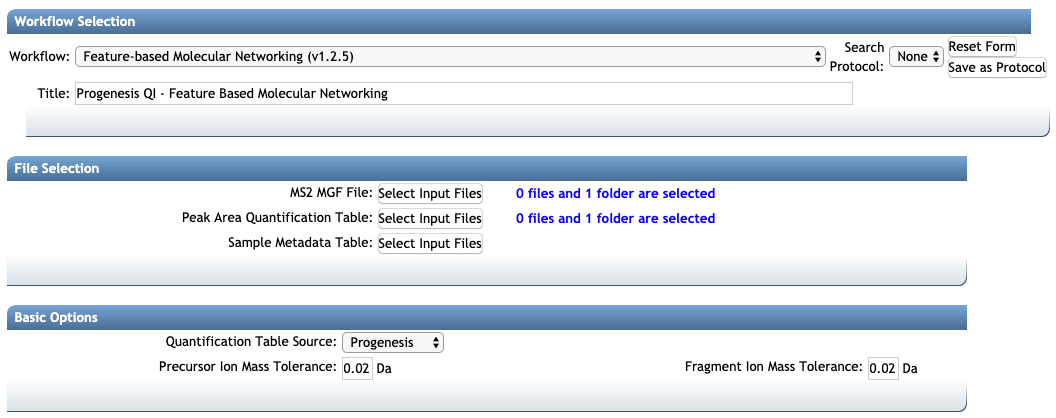
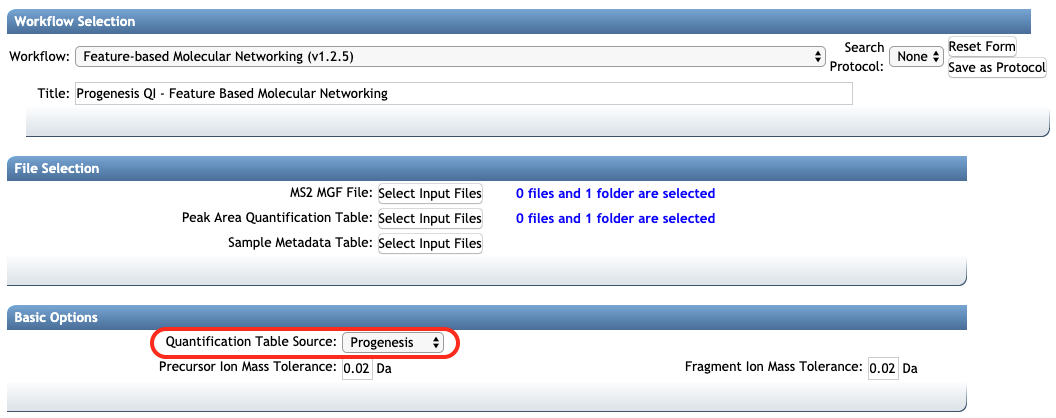
[FBMN] Update to the Progenesis QI documentation
- Detailed description of the export procedure.
- Screenshots
- Text refactoring

Changed region(s): [[0.125, 0.7775, 0.4375, 0.8708]]

diff --git a/docs/featurebasedmolecularnetworking-with-progenesisQI.md b/docs/featurebasedmolecularnetworking-with-progenesisQI.md
@@ -1,37 +1,67 @@
 ## Introduction
 
-**Feature-Based Molecular Networking** (FBMN) is a computational method that bridges popular mass spectrometry data processing tools for LC-MS/MS and molecular networking analysis on [GNPS](http://gnps.ucsd.edu). The supported tools are: [MZmine2](featurebasedmolecularnetworking-with-mzmine2.md), [OpenMS](featurebasedmolecularnetworking-with-openms.md), [MS-DIAL](featurebasedmolecularnetworking-with-ms-dial.md), [MetaboScape](featurebasedmolecularnetworking-with-metaboscape.md), [XCMS](featurebasedmolecularnetworking-with-xcms3.md), and [Progenesis QI](featurebasedmolecularnetworking-with-progenesisQI.md).
+**Feature-Based Molecular Networking** (FBMN) is a computational method that bridges popular mass spectrometry data processing tools for LC-MS/MS and molecular networking analysis on [GNPS](http://gnps.ucsd.edu). The supported tools are: [MZmine](featurebasedmolecularnetworking-with-mzmine2.md), [OpenMS](featurebasedmolecularnetworking-with-openms.md), [MS-DIAL](featurebasedmolecularnetworking-with-ms-dial.md), [MetaboScape](featurebasedmolecularnetworking-with-metaboscape.md), [XCMS](featurebasedmolecularnetworking-with-xcms3.md), and [Progenesis QI](featurebasedmolecularnetworking-with-progenesisQI.md).
 
 The main documentation for FBMN [can be accessed here](featurebasedmolecularnetworking.md).
 
-Below we describe how to use Progenesis QI with the FBMN workflow on GNPS.
+Below we describe how to use Progenesis QI with the FBMN workflow on [GNPS](http://gnps.ucsd.edu).
 
-## Using Progenesis QI and the Feature-Based Molecular Networking
+## Using Progenesis QI and the Feature-Based Molecular Networking on GNPS
 
-Progenesis QI is a proprietary LC-MS feature detection and alignment software developed by Nonlinear Dynamics (Waters, [http://www.nonlinear.com/progenesis/qi/](http://www.nonlinear.com/progenesis/qi/)) that is compatible with various proprietary and open mass spectrometry format.
+Progenesis QI is a proprietary LC-MS feature detection and alignment software developed by [Nonlinear Dynamics](http://www.nonlinear.com/progenesis/qi/](http://www.nonlinear.com/progenesis/qi/) that is compatible with Waters file format and other proprietary and open mass spectrometry format.
 
-Progenesis QI can perform feature detection, alignment and annotation of non-targeted LC-MS/MS data acquired either **in data-dependent analysis (DDA)** or **MSE data independent analysis (DIA)**, and can also uses the **ion mobility spectrometry (IMS) dimension**. Feature-based molecular networking can be performed on any of these data types processed with Progenesis QI.
+Progenesis QI can perform feature detection, alignment and annotation of non-targeted LC-MS/MS data acquired either **in data-dependent analysis (DDA)** or **MSE data independent analysis (DIA)**, and can also uses the **ion mobility spectrometry (IMS) dimension**. Feature-based molecular networking (FBMN) can be performed on **any of these data types processed with Progenesis QI**.
 
-For feature-based molecular networking with Progenesis QI, export the *feature quantification table* (.CSV file format) and the *MS/MS spectral summary* (.MSP file format), from the “Identify Compounds” submenu by using the function “Export compound measurement” and “Export fragment database”, respectively. These files can be uploaded to GNPS for FBMN analysis.
+## Running Progenesis QI for molecular networking on GNPS
+
+For more information on Progenesis QI, please refer to the official documentation at: [http://www.nonlinear.com/progenesis/qi/](http://www.nonlinear.com/progenesis/qi/).
+
+##### 1. Import and process the mass spectrometry data
+- In Progenesis QI (ver. 2.4, Nonlinear Dynamics), **import RAW data** from Waters QTof data-independent acquisition (DIA) modes such as SONAR, MSE or HDMSE. 
+- **Processed data** with Progenesis QI and export the results for GNPS analysis as indicated below. See the [Progenesis QI LC-MS tutorial](http://www.nonlinear.com/products/progenesis/lc-ms/tutorial/) and the [tutorial videos] (https://www.youtube.com/watch?v=hurottpvEO8&list=PLKkdMSX1HQ-UD8WVe9T9pcEWMzyw20FUi) for more informations.
+
+##### 2. Export the processing results
+
+In the menu, under the “Identify Compounds” tab:
+
+- Select **“Export Compound Measurement”** to export the **feature quantification table** (CSV file) containing compound intensity and annotation can be exported (see below).
+- Select **“Export fragment database”** to the export the **MS/MS spectral summary** (MSP file) containing the list of representative MS/MS spectra (see below).
+
+![img](img/featurebasedmolecularnetworking/progenesis_3.png)
+
+![img](img/featurebasedmolecularnetworking/progenesis_4.png)
 
 
-## Running Progenesis QI 
+###### Additional notes
+Alternatively, the Symphony software can be used the ion peaks in the entire RAW file can be detected, centroided, and deconvoluted, and converted to a suitable open-source data formats such as Mascot generic format (mgf), mzML, mzXML. More info on in the following note: [See more information in the Nov. 2018 Waters Technology Brief](https://www.waters.com/webassets/cms/library/docs/720006415en.pdf). These files can be processed by other softwares supported FBMN, or can be used for classical molecular networking analysis. 
 
-Please refer to the official documentation for Progenesis QI at: [http://www.nonlinear.com/progenesis/qi/](http://www.nonlinear.com/progenesis/qi/).
 
+## Running a molecular network on GNPS
 
-## Running a FBMN with Progenesis QI files
+FBMN with Progenesis QI results can be performed using the using Superquick or the standard interface:
 
-FBMN with Progenesis QI can be performed either using the [Superquick FBMN start page](https://gnps-quickstart.ucsd.edu/featurebasednetworking) or [the standard interface of the FBMN workflow](https://gnps.ucsd.edu/ProteoSAFe/index.jsp?params=%7B%22workflow%22:%22FEATURE-BASED-MOLECULAR-NETWORKING%22,%22library_on_server%22:%22d.speclibs;%22%7D) (you need to be logged in GNPS first).
+- **Use the Superquick FBMN interface**: 
+	- Go to [https://gnps-quickstart.ucsd.edu/featurebasednetworking](https://gnps-quickstart.ucsd.edu/featurebasednetworking).
+	- Select the **"Progenesis QI"** option for the "Feature Quantification Table Source".
+	- Drag and drop the **feature quantification table** (.CSV file) into the left box.
+	- Drag and drop the **MS/MS spectral summary** (.MSP file) into the right box.
+	  
 
-Upload your Progenesis QI exported files (*feature quantification table* and *MS/MS spectral summary*) to GNPS and select the "Progenesis QI" option in the "Feature Quantification Table Source".
+![img](img/featurebasedmolecularnetworking/quickstart_progenesis_5.png)
 
-![img](img/featurebasedmolecularnetworking/Progenesis_2.png)
+- **Use the standard FBMN interface**:
+	-	Refer to the [main FBMN documentation](featurebasedmolecularnetworking.md) for more informations.
 
-Refer to the [main FBMN documentation](featurebasedmolecularnetworking.md). for more information.
+![img](img/featurebasedmolecularnetworking/standard_progenesis_6.png)
+
+## Mapping Progenesis QI annotations in Cytoscape
+Progenesis QI annotations or metadata can be mapped in Cytoscape as node attribute into the molecular networks. [See the Cytoscape documentation for FBMN](featurebasedmolecularnetworking-cytoscape.md). 
+
+Helped is wanted to describe in detail the import procedure in Cytoscape.
+
 
 ## Page contributors
-Ming Wang (UCSD), Louis Felix Nothias (UCSD), Ivan Protsyuk (EMBL, Heidelberg, Germany).
+Louis Felix Nothias (UCSD), Ming Wang (UCSD), Bindesh Shrestha (Waters), Giorgis Isaac (Waters and Jonathan McSayles (Waters).
 
 ## Contribute to the Documentation
 
